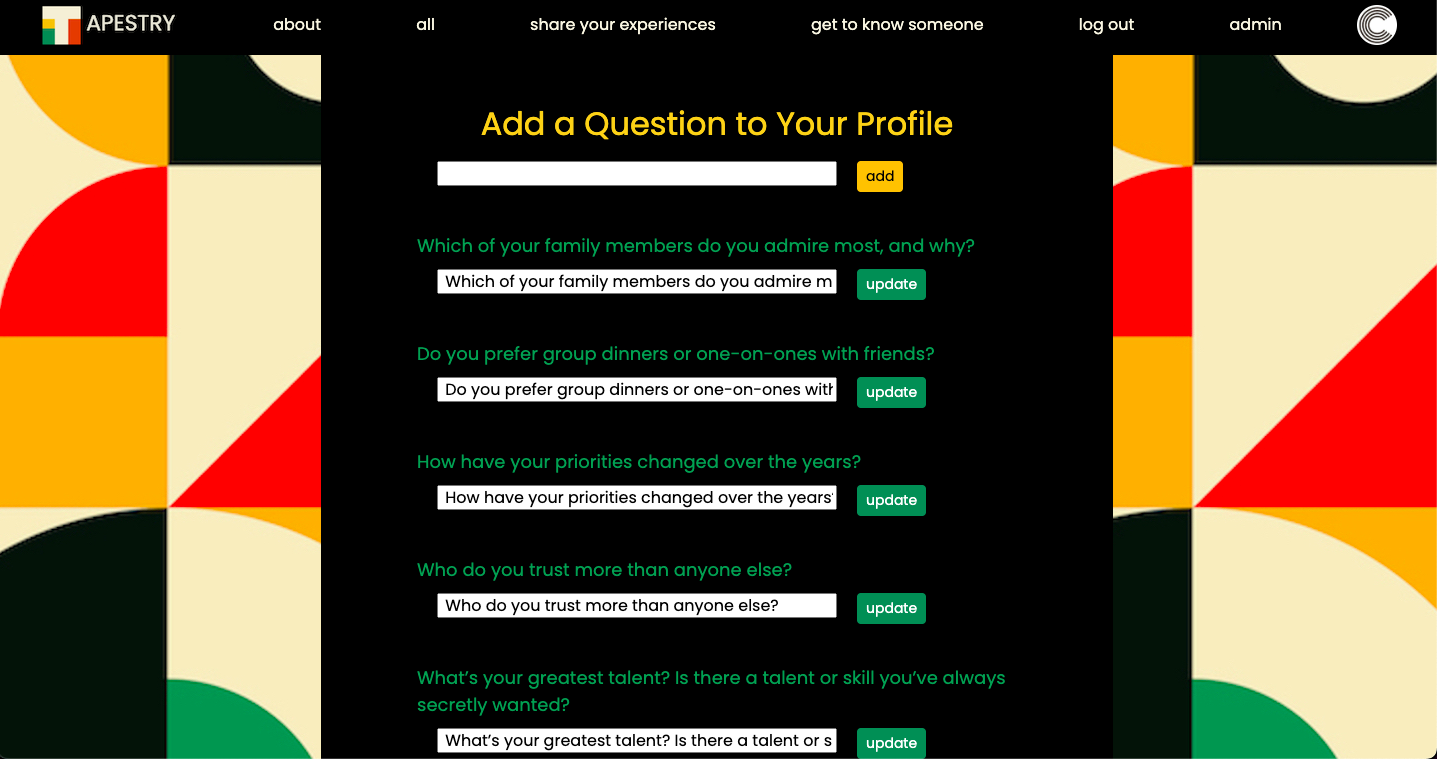
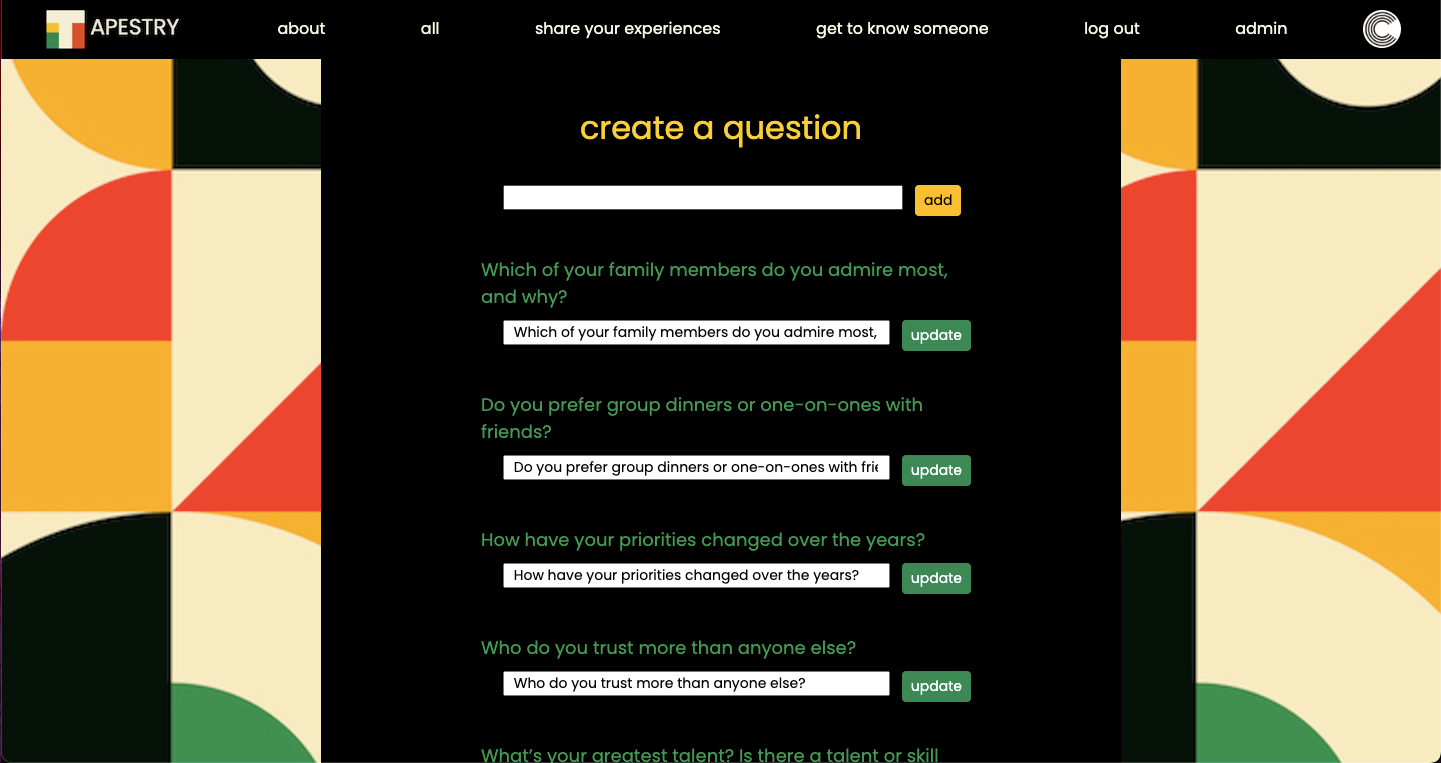
further refinements for width

diff --git a/public/stylesheets/style.css b/public/stylesheets/style.css
@@ -36,7 +36,8 @@ main {
 }
 
 section {
-  max-width: 1600px;
+  max-width: 800px;
+  min-width: 800px;
   height: 100%;
   display: flex;
   flex-direction: column;
@@ -111,7 +112,7 @@ span {
 }
 
 #summary-share {
-  width: 100%
+  width: 100%;
   color: rgb(230, 227, 211);
   font-size: 18px;
   padding: 0 10px 0 10px;
@@ -186,7 +187,7 @@ nav > a:active {
 
 .new-question {
   padding: 30px 0 10px 0;
-  width: 500px;
+  width: 80%;
 }
 
 #click-question {
@@ -244,7 +245,7 @@ summary:hover {
   width: 80px;
   height: 80px;
   align-items: center;
-  padding: 0 0 5px 0;
+  margin: 0 0 5px 0;
 }
 
 .tapestry-header {

diff --git a/public/stylesheets/profiles/show.css b/public/stylesheets/profiles/show.css
@@ -1,6 +1,6 @@
 section {
-  height: 100%;
-  width: 60%;
+  height: 100vh;
+  width: 50%;
 }
 
 .profile-avatar {
@@ -34,5 +34,5 @@ summary {
 }
 
 input {
-  
+
 }
